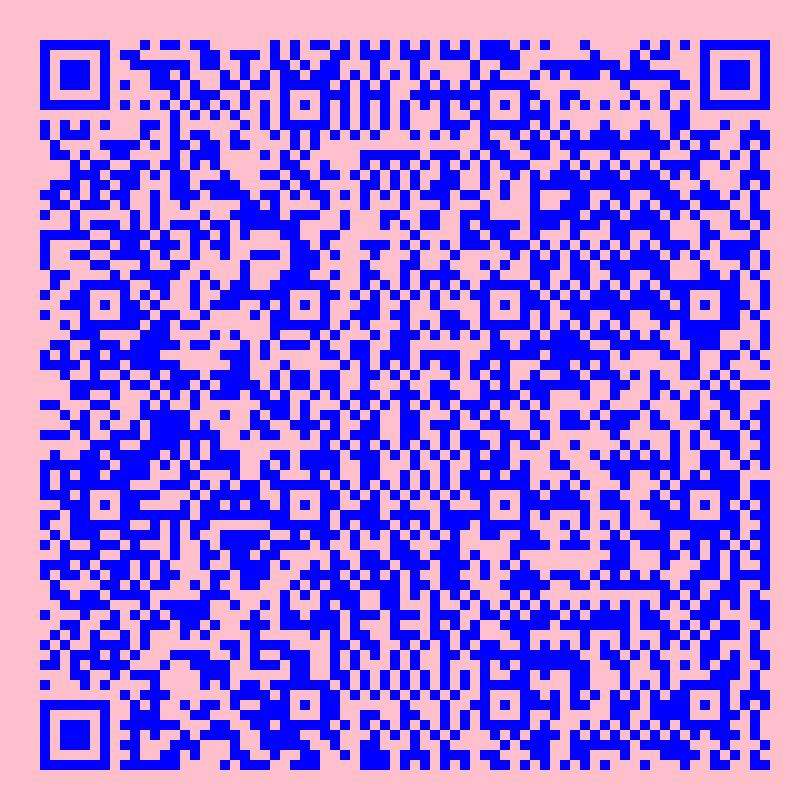
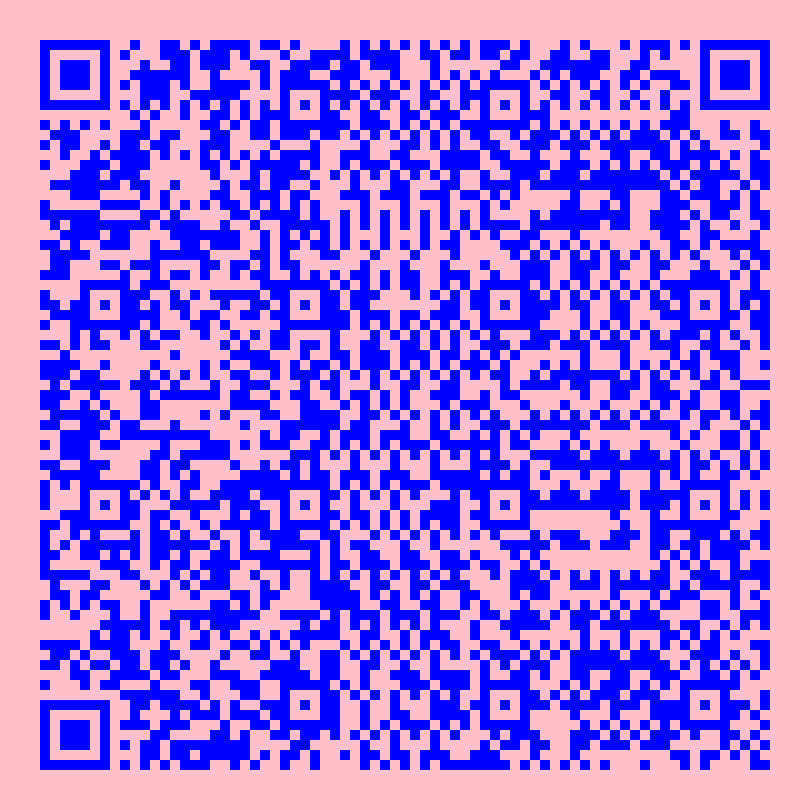
add EMBED AND EXTRACT MODULE

diff --git a/RDHEI/BreadoCloud/RDHEI.py b/RDHEI/BreadoCloud/RDHEI.py
@@ -37,14 +37,13 @@ class RDHEI:
 ##接口函数，生成加密图像
     def Encrypted(self):
         R = self.IMG[:, :, 0]
-        self.R_channel = R
         G = self.IMG[:, :, 1]
         B = self.IMG[:, :, 2]
         [RIMG,self.K_R] = self.single_channel_Encrypted(R)
         [GIMG,self.K_G] = self.single_channel_Encrypted(G)
         [BING,self.K_B] = self.single_channel_Encrypted(B)
 
-        self.R_EIMG = RIMG
+        #self.R_EIMG = RIMG
 
         saveIMG = np.zeros((self.height, self.width, 3))
         saveIMG[:, :, 0] = RIMG
@@ -52,7 +51,7 @@ class RDHEI:
         saveIMG[:, :, 2] = BING
         saveIMG = saveIMG.astype('uint8')
         tool.get_qrKEY(self.K_R+self.K_G+self.K_B)
-        io.imsave('encrypted.png', saveIMG)
+        io.imsave('encrypted.png', saveIMG)#todo path_name.png
         #io.imsave('qrKEY.png',qrKEY)
         io.imshow(saveIMG)
         plt.show()
@@ -77,13 +76,187 @@ class RDHEI:
         io.imshow(saveIMG)
         plt.show()
 
-    def Embedded(self,sData):
+##接口函数，隐藏信息
+    def Embedded(self,EIMG_PATH,sData):
+        EIMG = io.imread(EIMG_PATH)
+        RIMG = EIMG[:,:,0]
+        GIMG = EIMG[:,:,1]
+        BIMG = EIMG[:,:,2]
+        [R_D,G_D,B_D] = tool.dataSplit(sData)
+        EmRIMG = self.single_channel_Embedded(RIMG,R_D)
+        EmGIMG = self.single_channel_Embedded(GIMG,G_D)
+        EmBIMG = self.single_channel_Embedded(BIMG,B_D)
+
+        saveIMG = np.zeros((self.height, self.width, 3))
+        saveIMG[:, :, 0] = EmRIMG
+        saveIMG[:, :, 1] = EmGIMG
+        saveIMG[:, :, 2] = EmBIMG
+        saveIMG = saveIMG.astype('uint8')
+        io.imsave('EMBED.png', saveIMG)
+        io.imshow(saveIMG)
+        plt.show()
         pass
-    def Extracted(self,Ke):
+##接口函数，提取信息
+    def Extracted(self,EmIMG_PATH,Ke):
+        EmIMG = io.imread(EmIMG_PATH)
+        RIMG = EmIMG[:, :, 0]
+        GIMG = EmIMG[:, :, 1]
+        BIMG = EmIMG[:, :, 2]
+        dataR = self.single_channel_Extracted(RIMG,Ke)
+        dataG = self.single_channel_Extracted(GIMG,Ke)
+        dataB = self.single_channel_Extracted(BIMG,Ke)
+
+        return dataR+dataG+dataB
         pass
-    def single_channel_Embedded(self,sData):
-        pass
-    def single_channel_Extracted(self,Ke):
+    def single_channel_Embedded(self,EIMG,sData):
+        sData = tool.get_uint8(sData)
+        E_IMG = RDHEI.blocking(self,EIMG)
+        E_IMG = E_IMG.astype('uint8')
+        PR = E_IMG[0,:]
+        PR = PR.reshape(1,-1)
+        PS = E_IMG[1,0]
+        p_err = 1
+        PN_FLAG = np.zeros((self.s*self.s,self.n))
+        PN_FLAG[0,:] = -1 #PR
+        PN_FLAG[1,0] = -1 #PS
+
+        for i in range(self.n):
+            for j in range(1,4):
+                e = 0
+                a = PR[0,i]
+                b = E_IMG[j,i]
+                # if(a>=b):e= a-b
+                # else: e=b-a
+                e = -1*b+a
+                if(abs(e)>p_err):
+                    PN_FLAG[j,i] = 0
+                elif e == -1:
+                    PN_FLAG[j,i] = 1
+                elif e == 0:
+                    PN_FLAG[j,i] = 2
+                elif e == 1:
+                    PN_FLAG[j,i] = 3
+        #STEP 3 PBTL
+        PE_INDEX = np.argwhere(PN_FLAG != -1)
+        #PN = np.zeros((1,1))
+        PN = ""
+        for i in range(len(PE_INDEX)-1):
+            tmp_idx = PE_INDEX[i]
+            tmp = PN_FLAG[tmp_idx[0],tmp_idx[1]]
+            A = E_IMG[tmp_idx[0],tmp_idx[1]]
+            if tmp == 0:
+                A_bit = tool.uint2bit_num(A)
+                PN += A_bit[len(A_bit)-2:len(A_bit)] #last two bits of A
+                #PN += A_bit[0:2]
+                A = tool.bits_modi(A,'00')
+            elif tmp==1:
+                A = tool.bits_modi(A,'10')
+            elif tmp==2:
+                A = tool.bits_modi(A,'01')
+            elif tmp==3:
+                A = tool.bits_modi(A,'11')
+            E_IMG[tmp_idx[0],tmp_idx[1]] = A
+        # STEP 4 PAYLOAD EMBED
+        #ifb = PN.rfind('b')
+        n_PN =np.argwhere(PN_FLAG==0).size
+        n_PE = np.argwhere(PN_FLAG>0).size
+        n_PAYLOAD = (8-2)*n_PE-2*n_PN-8
+
+        PE_INDEX = np.argwhere(PN_FLAG>0)
+        bit_data = tool.uint2bit(sData)
+        PAYLOAD = tool.uint2bit_num(PS)+tool.uint2bit(sData) #+PN+
+        n_PAYLOAD = len(PAYLOAD)
+        nstr_PAYLOAD = str(n_PAYLOAD)
+        n_nstr = len(nstr_PAYLOAD)
+        nbit_PAYLOAD = tool.uint2bit(tool.get_uint8(nstr_PAYLOAD))
+        PAYLOAD_HEAD = tool.uint2bit_num(n_nstr)+nbit_PAYLOAD
+        PAYLOAD = PAYLOAD_HEAD+PAYLOAD
+
+        k = 0
+        for i in range(len(PE_INDEX)):
+            tmp_idx = PE_INDEX[i]
+            tmp = PN_FLAG[tmp_idx[0], tmp_idx[1]]
+            A = E_IMG[tmp_idx[0], tmp_idx[1]]
+            for j in range(0,6):
+                if(k>len(PAYLOAD)-1):break
+                A_bit = tool.bit_modi(A,j,PAYLOAD[k])
+                A = int(A_bit,2)
+                k = k+1
+            E_IMG[tmp_idx[0], tmp_idx[1]] = A
+        EMIMG = self.unblocking_two(E_IMG)
+        return EMIMG
+    def single_channel_Extracted(self,EmIMG,Ke):
+        Em_IMG = self.blocking(EmIMG)
+        Em_IMG = Em_IMG.astype("uint8")
+        #GROUPING
+        PR = Em_IMG[0,:]
+        PS = Em_IMG[1,0]
+        PN_FLAG = np.zeros((self.s * self.s, self.n))
+        PN_FLAG[0, :] = -1  # PR
+        PN_FLAG[1, 0] = -1  # PS
+        BIAS = np.zeros((self.s * self.s, self.n))
+        for i in range(self.n):
+            for j in range(1,4):
+                A = Em_IMG[j,i]
+                R_bit = tool.uint2bit_num(A)
+                #R_bit = R_bit[len(R_bit)-2:len(R_bit)] #FLAG BITS--LAST TWO BIT
+                R_bit = R_bit[6:8]
+                R_bit = int(R_bit,2)
+                if(R_bit == 0):
+                    PN_FLAG[j,i] = 0
+                elif(R_bit == 2):
+                    PN_FLAG[j,i] = 1
+                    BIAS[j,i] = -1
+                elif(R_bit == 1):
+                    PN_FLAG[j,i] = 2
+                    BIAS[j,i] = 0
+                elif(R_bit == 3):
+                    PN_FLAG[j,i] = 3
+                    BIAS[j,i] = 1
+        #extract from PE
+        PE_INDEX = np.argwhere(PN_FLAG>0)
+        ED_bit = "" #embedded data
+        for i in range(len(PE_INDEX)):
+            tmp_idx = PE_INDEX[i]
+            tmp = PN_FLAG[tmp_idx[0], tmp_idx[1]]
+            A = Em_IMG[tmp_idx[0], tmp_idx[1]]
+            #for j in range(0,6):
+            A_bit = tool.uint2bit_num(A)
+            ED_bit += A_bit[0:6]
+
+        #get length of Embedding data
+        n_nstr = int(ED_bit[0:8],2)
+        char_PAYLOAD = ""
+        for i in range(1,n_nstr+1):
+            char_PAYLOAD += str(int(ED_bit[8*i:8*(i+1)],2)-48) #ASCII change to num to str
+        n_PAYLOAD = int(char_PAYLOAD)
+        #CUT THE HEAD and CUT THE REST(unembedded)
+        ED_bit = ED_bit[(n_nstr+1)*8:(n_nstr+1)*8+n_PAYLOAD]
+        edlen = len(ED_bit)
+        #recover PS PN
+        PN_INDEX = np.argwhere(PN_FLAG==0)
+        # n_pn = len(PN_INDEX)
+        # k = 0
+        # for i in range(n_pn):
+        #     tmp_idx = PN_INDEX[i]
+        #     tmp = PN_FLAG[tmp_idx[0], tmp_idx[1]]
+        #     A = Em_IMG[tmp_idx[0], tmp_idx[1]]
+        #     A = int(tool.bit_modi(A,0,ED_bit[k]),2)
+        #     A = int(tool.bit_modi(A,1, ED_bit[k+1]),2)
+        #     k = k+2
+        #     Em_IMG[tmp_idx[0], tmp_idx[1]] = A
+        #recover ED
+        ED_bit = ED_bit[8:len(ED_bit)-1]
+        ED = ""
+        for i in range(int(len(ED_bit)/8)):
+            ED += chr(int(ED_bit[i*8:(i+1)*8],2))
+        for i in range(len(PE_INDEX)):
+            tmp_idx = PE_INDEX[i]
+            tmp = PN_FLAG[tmp_idx[0], tmp_idx[1]]
+            R_PX = PR[tmp_idx[1]]
+            Em_IMG[tmp_idx[0], tmp_idx[1]] = R_PX+BIAS[tmp_idx[0], tmp_idx[1]]
+        #EmIMG = self.unblocking(Em_IMG)
+        return ED
         pass
     def single_channel_Encrypted(self,sIMG):
         self.n = int((self.height*self.width)/(self.s*self.s))
@@ -211,6 +384,15 @@ class RDHEI:
         # plt.show()
         return OIMG
 
+    def preprocess(self,IMG_PATH):
+        IMG = io.imread(IMG_PATH)
+        self.height = len(IMG)
+        self.width = len(IMG[0])
+        self.n = int((self.height * self.width) / (self.s * self.s))
+        self.n_row = int(self.height / self.s)
+        self.n_col = int(self.width / self.s)
+        return IMG
+
     def blocking(self,sIMG):
         k=0
         BLK = np.zeros((self.n,self.s,self.s))
@@ -232,6 +414,19 @@ class RDHEI:
         for i in range(self.n_row):
             for j in range(self.n_col):
                 BLK[k,:,:] = BLK[k,:,:].T
+                EIMG[i*self.s:i*self.s+self.s,
+                    j*self.s:j*self.s+self.s] = BLK[k,:,:]
+                k = k+1
+        return EIMG
+
+    def unblocking_two(self,BLK):
+        k = 0
+        BLK = BLK.T.reshape(-1,2,2)
+        EIMG = np.zeros((self.height,self.width))
+
+        for i in range(self.n_row):
+            for j in range(self.n_col):
+                #BLK[k,:,:] = BLK[k,:,:].T
                 EIMG[i*self.s:i*self.s+self.s,
                     j*self.s:j*self.s+self.s] = BLK[k,:,:]
                 k = k+1

diff --git a/RDHEI/BreadoCloud/test.py b/RDHEI/BreadoCloud/test.py
@@ -6,8 +6,9 @@ import numpy as np
 from skimage import io
 if __name__ == "__main__":
     #process img
-    IMG_PATH = 'G:\gradethree\RDHEI\src_img\srcc.jpg'
+    IMG_PATH = 'G:\gradethree\RDHEI\src_img\src.jpg'
     EIMG_PATH = 'G:\python\BreadoCloud\encrypted.png'
+    EMIMG_PATH = 'G:\python\BreadoCloud\EMBED.png'
     KEY_PATH = 'G:\python\BreadoCloud\qrkey.png'
     SRC_IMG = preprocess(IMG_PATH)
 
@@ -25,6 +26,9 @@ if __name__ == "__main__":
                        [3, 2, 1],
                        [4, 5.4864, 6]])
     b = tool.get_uint8_matrix(Matrix)
-    p = RDHEI(IMG=SRC_IMG, SD='breadocloud_embed', K='2018srtp')
-    test = p.Encrypted()
-    o = p.Recovery(EIMG_PATH,KEY_PATH)
+    p = RDHEI(IMG=SRC_IMG, SD='breadocloud_embed', K='2018srtp')#todo path/NAME/
+    test = p.Encrypted() #todo PATH+QRKEY_NAME input：K,SRC_IMG,KEY_IMG 只有加密后的存路径 其他存图片
+    o = p.Recovery(EIMG_PATH,KEY_PATH) #todo input:KEY_IMG output:OIMG
+    EM = p.Embedded(EIMG_PATH,'breadocloudembed') #todo input:SD output:EMIMG_PATH,QRKEY2_PATH-------EXTRACTED input:QRKEY2_PATH,EMIMG_PATH OUTPUT:SD
+    sd = p.Extracted(EMIMG_PATH,'000')
+    print(sd)

diff --git a/RDHEI/BreadoCloud/tool.py b/RDHEI/BreadoCloud/tool.py
@@ -73,3 +73,40 @@ def read_qrKEY(qr_path):
     K_B = Kelist[64:128]
     #K_R,K_G,K_B type = list
     return [K_R,K_G,K_B]
+
+def dataSplit(data):
+    l = len(data)
+    R_D = data[0:int(l/3)]
+    G_D = data[int(l/3):int(l/3)*2]
+    B_D = data[int(l/3)*2:l+1]
+    return [R_D,G_D,B_D]
+
+def bits_modi(DEC,rep_bits):
+    bin_num = bin(DEC)
+    zero_str = '0'*(10-len(bin_num))
+    bin_num = zero_str+bin_num[2:len(bin_num)]
+    bin_num = bin_num[0:6]+rep_bits
+    #bin_num = rep_bits+bin_num[2:8]
+    newDEC = int(bin_num,2)
+    return newDEC
+
+def bit_modi(DEC,idx,rep):
+    new_bin = uint2bit_num(DEC)
+    new_bin = new_bin[0:idx]+ rep +new_bin[1+idx:len(new_bin)]
+    return new_bin
+
+def uint2bit_num(uint):
+    bin_num = bin(uint)
+    zero_str = '0' * (10 - len(bin_num))
+    bin_num = zero_str + bin_num[2:len(bin_num)]
+    str_bit = bin_num
+    return str_bit
+
+def uint2bit(UINT):
+    str_bit = ""
+    for u in UINT:
+        bin_num = bin(u)
+        zero_str = '0' * (10 - len(bin_num))
+        bin_num = zero_str + bin_num[2:len(bin_num)]
+        str_bit += bin_num
+    return str_bit
